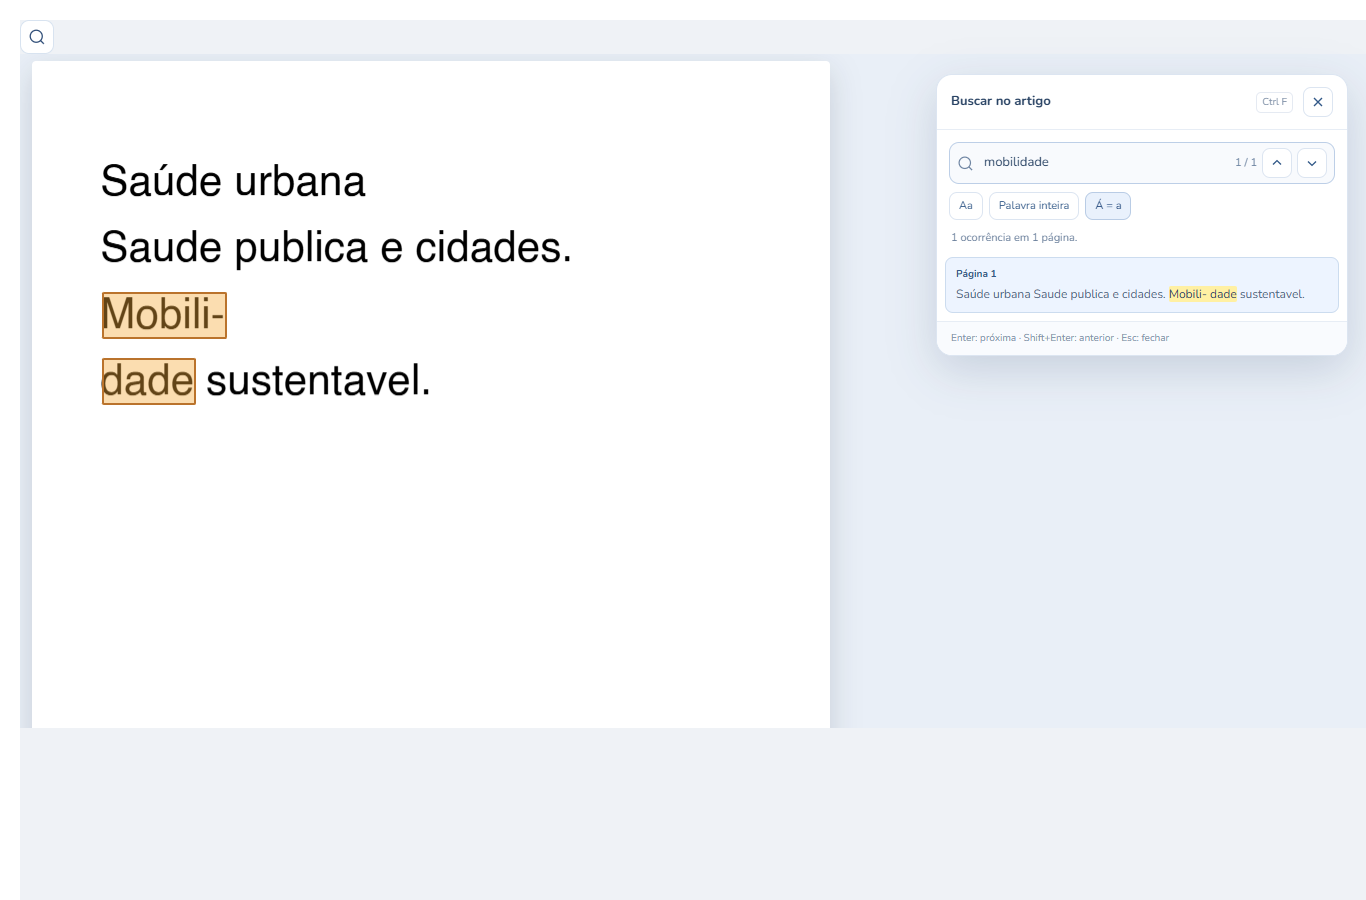
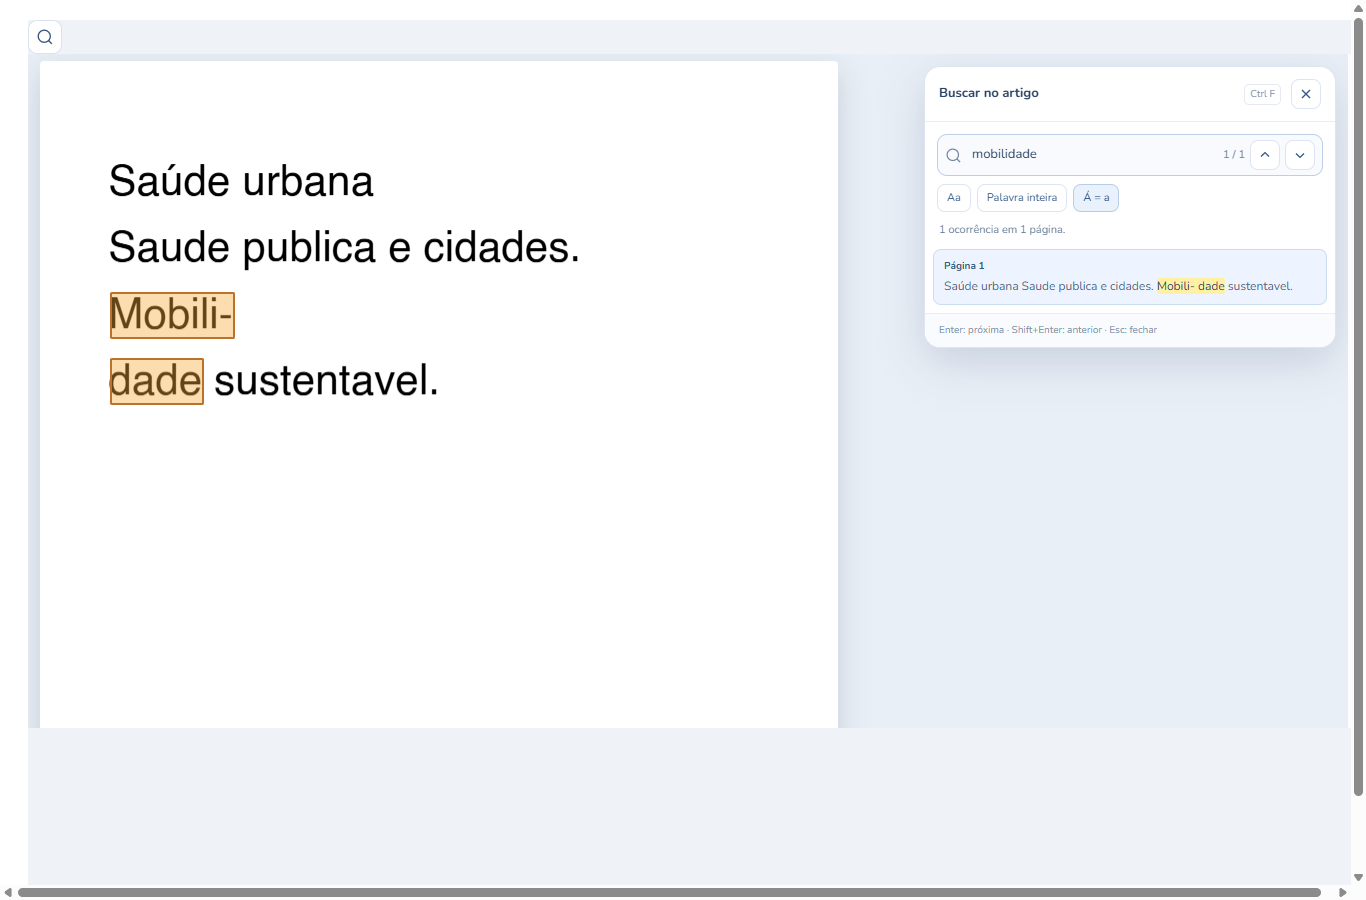
fix(leitor): ancora painel de busca dentro do canvas PDF

diff --git a/src/ui/athenes_busca_artigo.js b/src/ui/athenes_busca_artigo.js
@@ -40,7 +40,12 @@ export function instalarBuscaArtigo(view,root,art,estado={}){
   const panel=document.createElement('section');panel.className='ath-reader-find';panel.hidden=true;panel.setAttribute('role','search');panel.setAttribute('aria-label','Busca no artigo');
   const seta=d=>`<svg width="16" height="16" viewBox="0 0 20 20" fill="none" stroke="currentColor" stroke-width="1.8" aria-hidden="true"><path d="${d}"/></svg>`;
   panel.innerHTML=`<header><strong>Buscar no artigo</strong><kbd>Ctrl F</kbd><button type="button" data-find="close" aria-label="Fechar busca (Esc)">${seta('m5 5 10 10M15 5 5 15')}</button></header><div class="ath-reader-find-input"><span>${svgIcone('busca',17)}</span><input id="${id}" type="search" placeholder="Palavra ou trecho do artigo" aria-label="Texto a procurar" autocomplete="off"><span data-count aria-live="polite"></span><button type="button" data-find="prev" aria-label="Ocorrência anterior (Shift+Enter)">${seta('m5 12 5-5 5 5')}</button><button type="button" data-find="next" aria-label="Próxima ocorrência (Enter)">${seta('m5 8 5 5 5-5')}</button></div><div class="ath-reader-find-options"><button type="button" data-option="maiusculas" aria-pressed="false" title="Distinguir maiúsculas e minúsculas">Aa</button><button type="button" data-option="inteira" aria-pressed="false" title="Encontrar somente palavras inteiras">Palavra inteira</button><button type="button" data-option="semAcentos" aria-pressed="true" title="Ignorar diferenças de acentuação">Á = a</button></div><p class="ath-reader-find-status" role="status"></p><ol aria-label="Trechos encontrados"></ol><footer>Enter: próxima · Shift+Enter: anterior · Esc: fechar</footer>`;
-  document.body.append(panel);
+  const anchor=palco?.parentElement||root,jaPosicionado=anchor.classList.contains('ath-reader-find-container');
+  anchor.classList.add('ath-reader-find-container');
+  const host=document.createElement('div');host.className='ath-reader-find-host';anchor.append(host);host.append(panel);
+  const alinhar=()=>{const r=(palco||root).getBoundingClientRect(),a=anchor.getBoundingClientRect();Object.assign(host.style,{left:(r.left-a.left-anchor.clientLeft+anchor.scrollLeft)+'px',top:(r.top-a.top-anchor.clientTop+anchor.scrollTop)+'px',width:((palco||root).clientWidth||r.width)+'px',height:((palco||root).clientHeight||r.height)+'px'});};
+  alinhar();
+  const resizeObserver=typeof ResizeObserver!=='undefined'?new ResizeObserver(alinhar):null;resizeObserver?.observe(palco||root);if(anchor!==palco)resizeObserver?.observe(anchor);
   const input=panel.querySelector('input'),list=panel.querySelector('ol'),status=panel.querySelector('[role=status]'),count=panel.querySelector('[data-count]');
   estado.consulta||='';estado.opcoes||={maiusculas:false,inteira:false,semAcentos:true};
   input.value=estado.consulta;for(const b of panel.querySelectorAll('[data-option]'))b.setAttribute('aria-pressed',String(!!estado.opcoes[b.dataset.option]));
@@ -101,7 +106,7 @@ export function instalarBuscaArtigo(view,root,art,estado={}){
       if(resultados.length&&!navegou&&autoRevelar)ir(0);else agendarPintura();
     }catch(error){if(!sinal.aborted&&token===geracao)status.textContent='Não foi possível pesquisar este arquivo. Tente reabri-lo.';}
   }
-  function abrir(foco=true){if(!visivel()){estado.aberta=true;panel.hidden=true;return;}if(estado.aberta&&!panel.hidden){if(foco){input.focus();input.select();}return;}estado.aberta=true;panel.hidden=false;button.setAttribute('aria-expanded','true');if(foco){input.focus();input.select();}procurar(foco);}
+  function abrir(foco=true){alinhar();if(!visivel()){estado.aberta=true;panel.hidden=true;return;}if(estado.aberta&&!panel.hidden){if(foco){input.focus();input.select();}return;}estado.aberta=true;panel.hidden=false;button.setAttribute('aria-expanded','true');if(foco){input.focus();input.select();}procurar(foco);}
   function fechar(){estado.aberta=false;panel.hidden=true;button.setAttribute('aria-expanded','false');abort?.abort();geracao++;clearTimeout(timer);limpar();button.focus({preventScroll:true});}
   button.addEventListener('click',()=>abrir());input.addEventListener('input',()=>{estado.consulta=input.value;abort?.abort();geracao++;clearTimeout(timer);resultados=[];ativo=-1;limpar();renderResultados();status.textContent='Pesquisando…';timer=setTimeout(()=>{timer=0;procurar();},200);});
   panel.addEventListener('click',e=>{const option=e.target.closest('[data-option]'),result=e.target.closest('[data-result]'),action=e.target.closest('[data-find]')?.dataset.find;if(option){const name=option.dataset.option;estado.opcoes[name]=!estado.opcoes[name];option.setAttribute('aria-pressed',String(estado.opcoes[name]));clearTimeout(timer);procurar();}if(result){ir(Number(result.dataset.result));input.focus({preventScroll:true});}if(action==='close')fechar();if(action==='next')ir(ativo+1);if(action==='prev')ir(ativo-1);});
@@ -112,12 +117,13 @@ export function instalarBuscaArtigo(view,root,art,estado={}){
     if(e.key==='Escape'){e.preventDefault();e.stopPropagation();fechar();}
     else if(e.key==='F3'||(e.ctrlKey||e.metaKey)&&e.key.toLowerCase()==='g'||panel.contains(e.target)&&e.key==='Enter'&&!e.target.closest('button')){e.preventDefault();if(timer){clearTimeout(timer);timer=0;procurar();}else ir(ativo+(e.shiftKey?-1:1));}
   };
-  window.addEventListener('keydown',teclado,true);palco?.addEventListener('scroll',agendarPintura,{passive:true});window.addEventListener('resize',agendarPintura);
+  const redimensionar=()=>{alinhar();agendarPintura();};
+  window.addEventListener('keydown',teclado,true);palco?.addEventListener('scroll',agendarPintura,{passive:true});window.addEventListener('resize',redimensionar);
   const pronto=e=>{const layer=e.target.closest('[data-texto-pag]');if(layer)modelos.delete(layer);agendarPintura();};root.addEventListener('athenes:pdf-text-ready',pronto);
   const observer=new MutationObserver(mutations=>{let mudou=false,reindexar=false;for(const m of mutations){const el=m.target.nodeType===1?m.target:m.target.parentElement;const layer=el?.closest('[data-texto-pag]');if(layer){modelos.delete(layer);mudou=true;if(el.closest('[data-colunas-pag]'))reindexar=true;}}if(mudou)agendarPintura();if(reindexar&&estado.aberta&&input.value.trim()){abort?.abort();geracao++;clearTimeout(timer);timer=setTimeout(()=>{timer=0;procurar(false);},200);}});observer.observe(root,{subtree:true,childList:true,characterData:true,attributes:true,attributeFilter:['style']});
   let lifecycle;
-  const controller={abrir,destroy(){if(destruido)return;estado.foco=!!estado.aberta&&document.activeElement===input;estado.selecao={inicio:input.selectionStart||0,fim:input.selectionEnd||0};destruido=true;abort?.abort();geracao++;clearTimeout(timer);cancelAnimationFrame(frame);observer.disconnect();lifecycle?.disconnect();root.removeEventListener('athenes:pdf-text-ready',pronto);window.removeEventListener('keydown',teclado,true);window.removeEventListener('resize',agendarPintura);palco?.removeEventListener('scroll',agendarPintura);limpar();panel.remove();button.remove();}};
-  lifecycle=new MutationObserver(()=>{if(destruido)return;if(!root.isConnected){estado.aberta=false;controller.destroy();return;}if(!visivel()&&!panel.hidden){panel.hidden=true;abort?.abort();geracao++;clearTimeout(timer);limpar();}else if(visivel()&&estado.aberta&&panel.hidden)abrir(false);});
+  const controller={abrir,destroy(){if(destruido)return;estado.foco=!!estado.aberta&&document.activeElement===input;estado.selecao={inicio:input.selectionStart||0,fim:input.selectionEnd||0};destruido=true;abort?.abort();geracao++;clearTimeout(timer);cancelAnimationFrame(frame);observer.disconnect();lifecycle?.disconnect();resizeObserver?.disconnect();root.removeEventListener('athenes:pdf-text-ready',pronto);window.removeEventListener('keydown',teclado,true);window.removeEventListener('resize',redimensionar);palco?.removeEventListener('scroll',agendarPintura);limpar();host.remove();if(!jaPosicionado)anchor.classList.remove('ath-reader-find-container');button.remove();}};
+  lifecycle=new MutationObserver(()=>{if(destruido)return;if(!root.isConnected){estado.aberta=false;controller.destroy();return;}if(!visivel()&&!panel.hidden){panel.hidden=true;abort?.abort();geracao++;clearTimeout(timer);limpar();}else if(visivel()&&estado.aberta&&panel.hidden)abrir(false);if(visivel())alinhar();});
   for(let el=root;el;el=el.parentElement)lifecycle.observe(el,{childList:true,attributes:true,attributeFilter:['hidden','aria-hidden','style','class']});
   if(estado.aberta){abrir(false);if(estado.foco&&visivel()){input.focus({preventScroll:true});if(estado.selecao)input.setSelectionRange(estado.selecao.inicio,estado.selecao.fim);}}
   return controller;

diff --git a/src/css/athenes_busca_artigo.css b/src/css/athenes_busca_artigo.css
@@ -1,11 +1,14 @@
 .ath-reader-find-button{display:inline-grid;place-items:center;flex:none;width:34px;height:34px;padding:0;border:1px solid #d8e3f0;border-radius:9px;background:#fff;color:#314f79;cursor:pointer}
 .ath-reader-find svg,.ath-reader-find-button svg{display:block;fill:none;stroke:currentColor;stroke-width:1.7}
-.ath-reader-find{position:fixed;right:18px;top:74px;width:min(410px,calc(100vw - 28px));max-height:calc(100dvh - 100px);display:flex;flex-direction:column;z-index:5000;border:1px solid #dce5f1;border-radius:16px;background:#fff;box-shadow:0 14px 44px #1b35582b;color:#294364;font:13px/1.5 var(--glx-font,Nunito,Arial,sans-serif);overflow:hidden}
+.ath-reader-find-container,.ath-estudio-full-shell .ath-reader-find-container{position:relative!important}
+.ath-reader-find-host{position:absolute;z-index:50;pointer-events:none;overflow:hidden;container-type:size}
+.ath-reader-find{position:absolute;right:12px;top:12px;width:min(410px,calc(100% - 24px));max-height:calc(100% - 24px);pointer-events:auto;display:flex;flex-direction:column;z-index:1;border:1px solid #dce5f1;border-radius:16px;background:#fff;box-shadow:0 14px 44px #1b35582b;color:#294364;font:13px/1.5 var(--glx-font,Nunito,Arial,sans-serif);overflow:hidden}
 .ath-reader-find[hidden]{display:none}.ath-reader-find *{box-sizing:border-box}.ath-reader-find header{display:flex;align-items:center;gap:10px;padding:12px 14px;border-bottom:1px solid #e7edf5}.ath-reader-find header strong{flex:1}.ath-reader-find kbd{font:10px inherit;color:#8494aa;padding:2px 5px;border:1px solid #e5eaf2;border-radius:5px}
 .ath-reader-find button{display:inline-grid;place-items:center;flex:none;min-width:30px;height:30px;padding:0;border:1px solid #dce5f1;border-radius:8px;background:white;color:#315887;font:inherit;cursor:pointer}.ath-reader-find button:hover{background:#eef4fc}.ath-reader-find button:disabled{opacity:.4;cursor:default}.ath-reader-find :focus-visible,.ath-reader-find-button:focus-visible{outline:2px solid #5c83b3;outline-offset:2px}
 .ath-reader-find-input{display:flex;align-items:center;gap:5px;margin:12px 12px 8px;padding:5px 7px;border:1px solid #bdcfe7;border-radius:10px;background:#f8fafd}.ath-reader-find-input>span:first-child{display:flex;color:#7086a3}.ath-reader-find-input input{min-width:0;flex:1;border:0;outline:0;background:transparent;color:inherit;font:inherit;padding:5px}.ath-reader-find [data-count]{font-size:11px;color:#7086a3;white-space:nowrap}.ath-reader-find-options{display:flex;gap:6px;padding:0 12px}.ath-reader-find-options button{font-size:11px;padding:0 9px;height:28px}.ath-reader-find-options button[aria-pressed=true]{background:#e9f1fc;border-color:#b9cce5;color:#254b7e}.ath-reader-find-status{font-size:11px;color:#6a7f9b;margin:10px 14px}
 .ath-reader-find ol{min-height:0;overflow:auto;overscroll-behavior:contain;list-style:none;margin:0;padding:0 8px 8px;scrollbar-width:thin;max-height:42vh}.ath-reader-find li+li{margin-top:4px}.ath-reader-find li button{display:flex;align-items:flex-start;flex-direction:column;gap:3px;text-align:left;width:100%;height:auto;padding:9px 10px;border-color:transparent;font-size:12px;color:#536b89}.ath-reader-find li button strong{font-size:10px;color:#315887}.ath-reader-find li button[aria-current=true]{background:#edf4ff;border-color:#ccdcef}.ath-reader-find mark{background:#fff0a3;color:#334966;border-radius:2px}.ath-reader-find footer{border-top:1px solid #e7edf5;padding:9px 14px;font-size:10px;color:#8293ab;background:#f9fbfe}
 .ath-reader-find-input:focus-within{border-color:#6b94c6;box-shadow:0 0 0 2px #e8f0fc}.ath-reader-find-input input:focus-visible{outline:0;box-shadow:none}.ath-reader-find kbd{font-family:inherit;font-size:10px}
 .ath-pdf-search-layer{position:absolute;inset:0;z-index:5;pointer-events:none}.ath-pdf-search-layer>span{position:absolute;background:#ffd44755;box-shadow:inset 0 0 0 1px #d6a20a44;border-radius:2px}.ath-pdf-search-layer>span.is-current{background:#f5a93a66;box-shadow:inset 0 0 0 2px #ba732c}
-@media(max-width:620px){.ath-reader-find{right:10px;top:66px;width:calc(100vw - 20px)}.ath-reader-find-input{gap:3px;margin:10px}.ath-reader-find [data-count]{font-size:10px}}
-@media print{.ath-reader-find,.ath-reader-find-button,.ath-pdf-search-layer{display:none!important}}
+@container(max-width:420px){.ath-reader-find{right:8px;top:8px;width:calc(100% - 16px);max-height:calc(100% - 16px)}.ath-reader-find-input{gap:3px;margin:10px}.ath-reader-find [data-count]{font-size:10px}}
+@container(max-height:300px){.ath-reader-find ol,.ath-reader-find footer{display:none}.ath-reader-find header{padding:6px 10px}.ath-reader-find-input{margin:6px}.ath-reader-find-status{margin:6px 10px}}
+@media print{.ath-reader-find-host{display:none!important}.ath-reader-find,.ath-reader-find-button,.ath-pdf-search-layer{display:none!important}}
